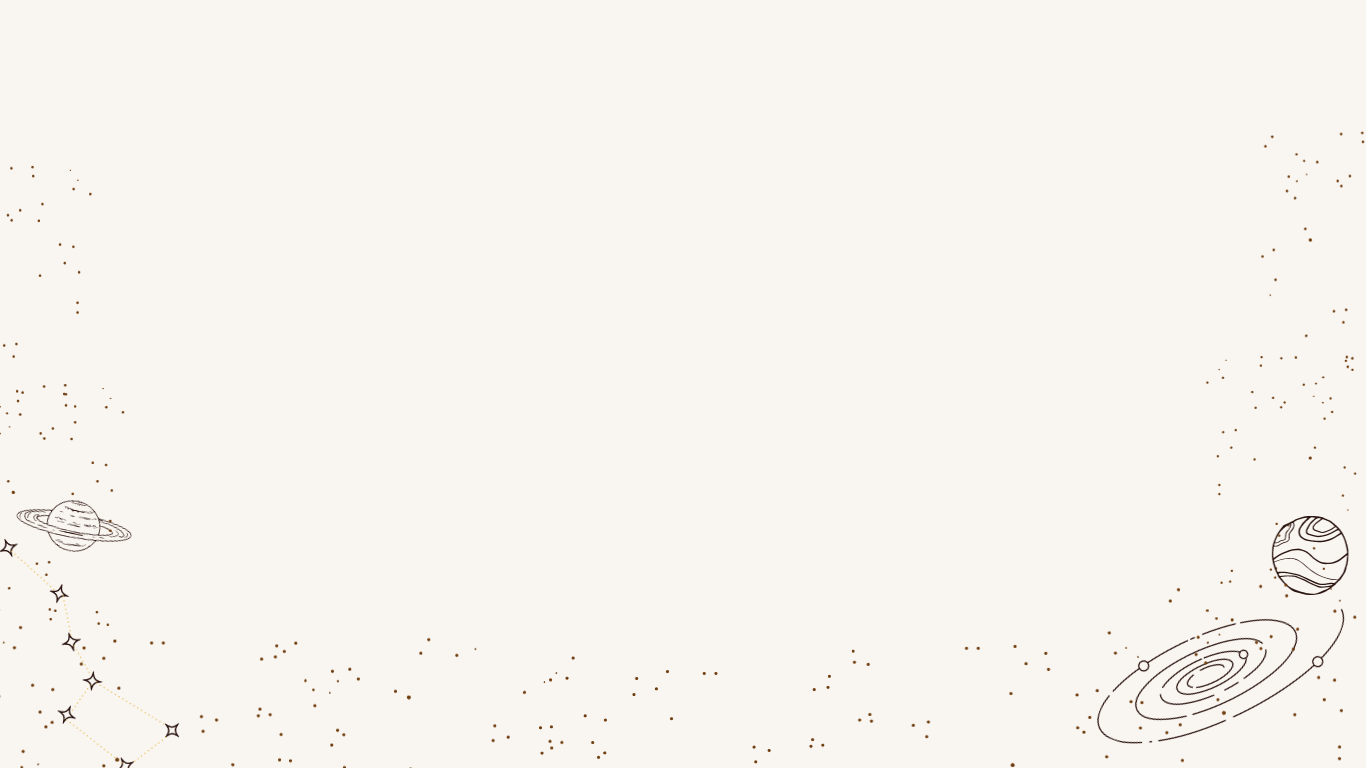
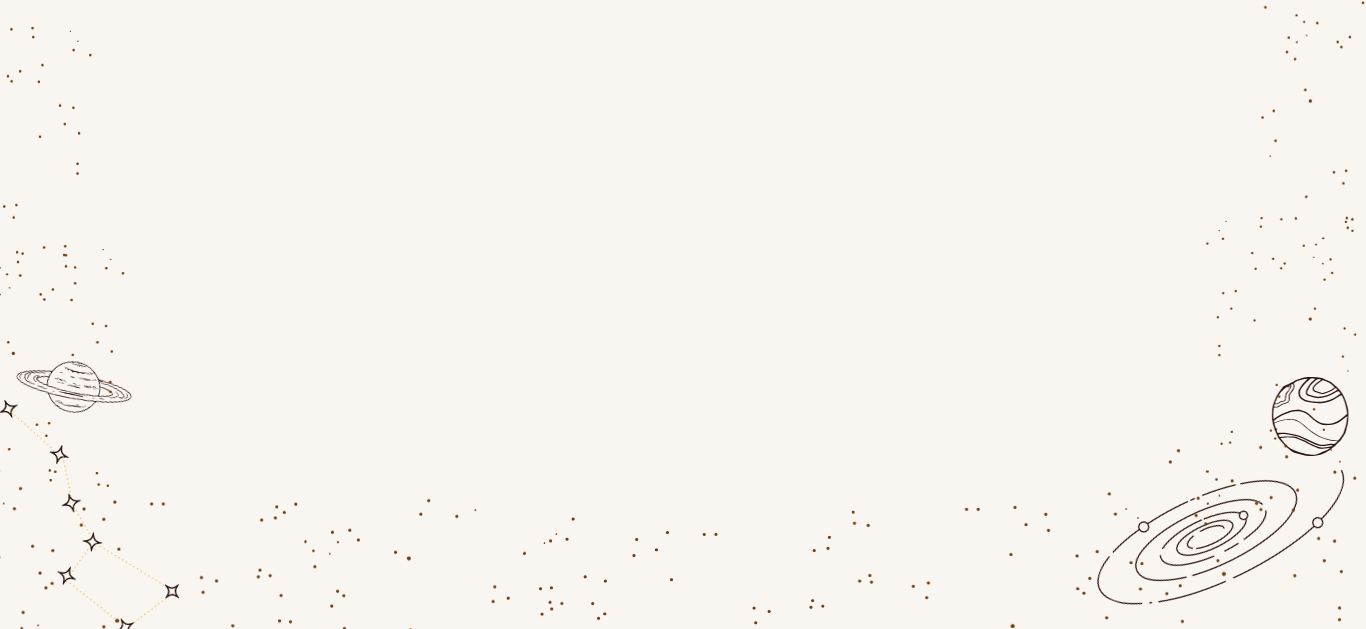
new save

diff --git a/public/css/style.css b/public/css/style.css
@@ -12,7 +12,9 @@
     border: 2px solid #f9f5f0;
     border-radius: 8px;
     padding: 5px;
-    background-image: url('images/banner-background.png');
+    background-image: url('/images/banner-background.png');
+    background-repeat: no-repeat; 
+    background-color: #f9f5f0;
     font-family: Garamond, serif;
 
 }
@@ -42,6 +44,12 @@
 }
 
 /*-----------Body containers--------*/
+body{
+    background-image: url('images/background.png'); 
+    font-family: Garamond, serif;
+    background-size:auto;
+    background-color: #f9f5f0;
+}
 .centeredform {
     position: absolute;
     left: 20%;
@@ -116,7 +124,7 @@ h2 {
     left: 0;
     bottom: 0;
     width: 100%;
-    background-color: #f9f5f0;
+    background: rgba(76, 175, 80, 0);
     color: black;
     text-align: center;
 }
